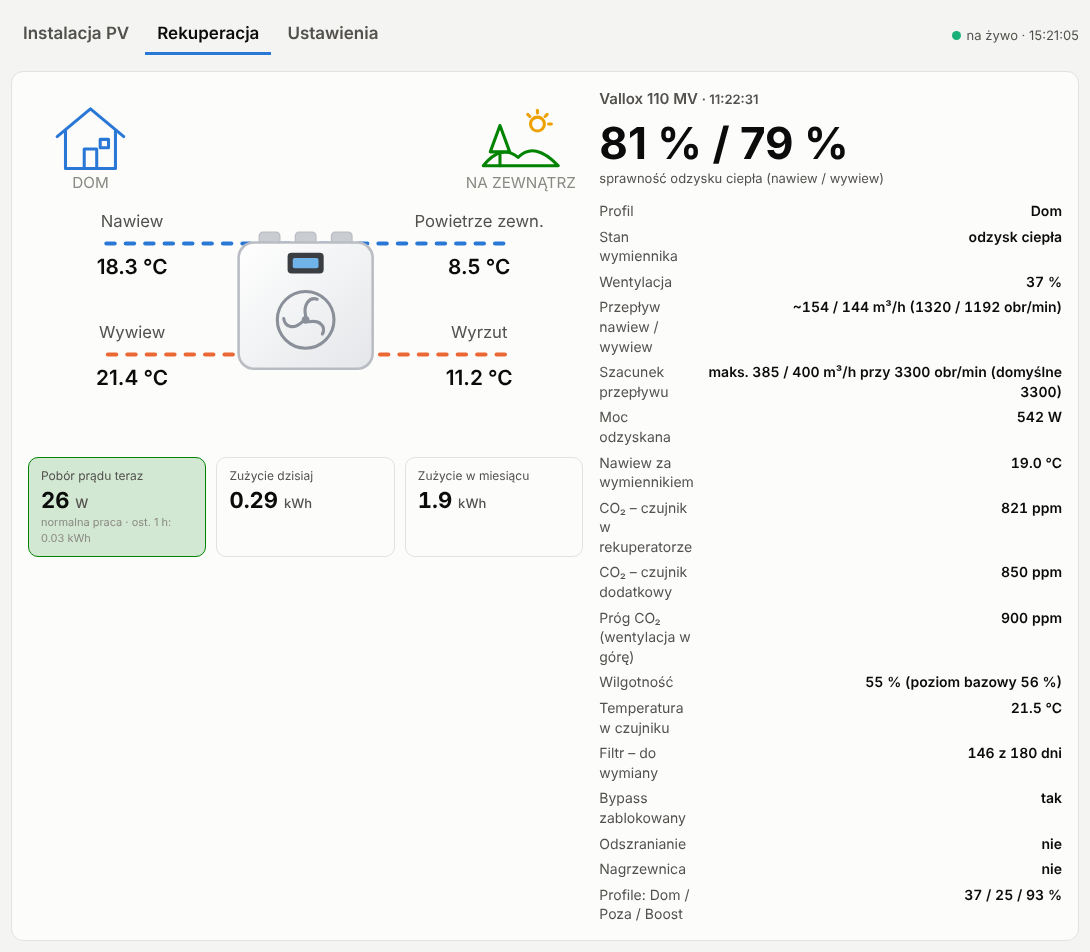
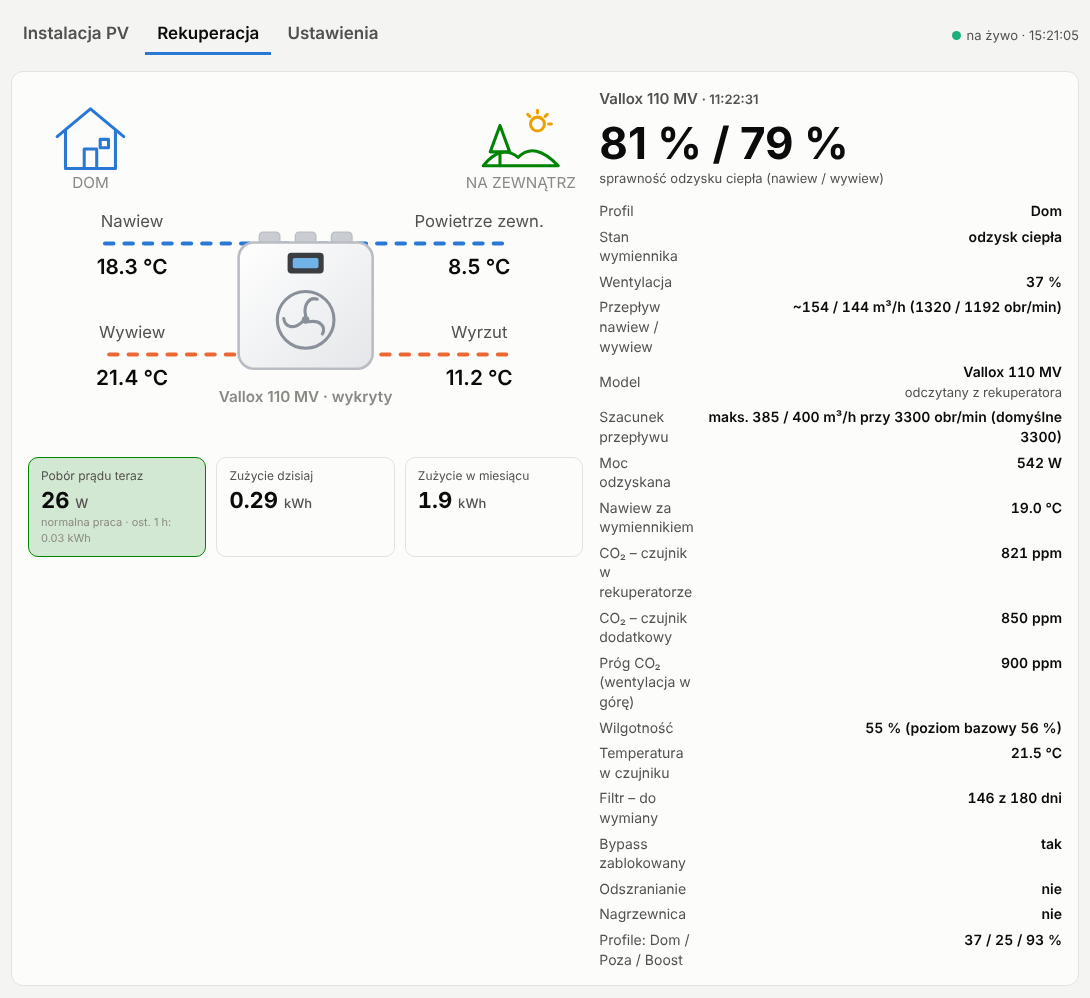
v1.16.0: rekuperacja - automatyczne rozpoznanie modelu Vallox, model na grafice; README - pelny opis rekuperacji ze zrzutami
Szczegoly w CHANGELOG.md

diff --git a/web/index.html b/web/index.html
@@ -489,6 +489,7 @@ th:first-child, td:first-child { text-align: left; }
       <path id="v-l-out" class="line" d="M55 192 L345 192" stroke="var(--s-pv)"/>
       <image href="/static/recuperator.svg" x="146" y="102" width="108" height="104" preserveAspectRatio="xMidYMid meet">
         <title>Rekuperator Vallox</title></image>
+      <text class="sub" x="200" y="226" id="v-model" style="font-weight:600"></text>
       <text class="lbl" x="325" y="100">Powietrze zewn.</text><text class="val" x="325" y="134" id="v-tout">–</text>
       <text class="lbl" x="75" y="100">Nawiew</text><text class="val" x="75" y="134" id="v-tsup">–</text>
       <text class="lbl" x="75" y="180">Wywiew</text><text class="val" x="75" y="214" id="v-text">–</text>
@@ -717,6 +718,7 @@ th:first-child, td:first-child { text-align: left; }
       <fieldset><legend>Rekuperacja (opcjonalnie)</legend>
         <label>Adres IP rekuperatora Vallox (seria MV)<input data-k="rekuperacja.vallox_ip" placeholder="puste = bez zakładki Rekuperacja"></label>
         <label>Model rekuperatora<select data-k="rekuperacja.model">
+          <option value="auto">automatycznie – odczyt z rekuperatora</option>
           <option value="096">Vallox 096 MV (maks. 292 / 310 m³/h)</option>
           <option value="110">Vallox 110 MV (maks. 385 / 400 m³/h)</option>
           <option value="145">Vallox 145 MV (maks. 511 / 576 m³/h)</option>
@@ -1760,7 +1762,7 @@ const fmtT = v => v == null ? '–' : v.toFixed(1) + ' °C';
 async function loadVallox() {
   let d;
   try { d = await (await fetch('/api/vallox/live')).json(); } catch (e) { return; }
-  if (d.model) $('vname').textContent = d.model.name;
+  if (d.model) { $('vname').textContent = d.model.name || 'Rekuperator Vallox'; $('v-model').textContent = d.model.name ? d.model.name + (d.model.detected ? ' · wykryty' : '') : ''; }
   $('vstatus').textContent = d.ok ? '· ' + new Date(d.ts * 1000).toLocaleTimeString('pl-PL') : '· błąd: ' + d.error;
   lastVallox = d; renderBalance(d); renderBypass(d); renderSupply(d);
   $('v-tout').textContent = fmtT(d.t_out); $('v-tsup').textContent = fmtT(d.t_sup);
@@ -1774,6 +1776,7 @@ async function loadVallox() {
   $('v-kv').innerHTML =
     row('Profil', d.profile_txt) + row('Stan wymiennika', d.cell_state_txt) + row('Wentylacja', d.fan_pct != null ? d.fan_pct + ' %' : null) +
     row('Przepływ nawiew / wywiew', d.flow_sup != null ? `~${d.flow_sup} / ${d.flow_ext} m³/h (${d.rpm_sup} / ${d.rpm_ext} obr/min)` : null) +
+    (d.model ? row('Model', `${esc(d.model.name || '–')}${d.model.source ? '<br><span class="status" style="display:inline;font-weight:400">' + esc(d.model.source) + '</span>' : ''}`) : '') +
     (d.model ? row('Szacunek przepływu', `maks. ${d.model.flow_max.sup} / ${d.model.flow_max.ext} m³/h przy ${d.model.rpm_max.sup} obr/min (${d.model.rpm_source})`) : '') +
     row('Moc odzyskana', d.p_rec_w != null ? Math.round(d.p_rec_w) + ' W' : null) +
     row('Nawiew za wymiennikiem', fmtT(d.t_sup_cell)) +

diff --git a/vallox.py b/vallox.py
@@ -39,14 +39,47 @@ MODELS = {
     "145": ("Vallox 145 MV", 511, 576),
     "245": ("Vallox 245 MV", 889, 976),
 }
-MODEL = config.get("rekuperacja", "model", "110") or "110"
-if MODEL in MODELS:
-    MODEL_NAME, _q_sup, _q_ext = MODELS[MODEL]
-else:                                           # "inny": maks. przeplyw wpisany recznie (obie strony)
-    _q = config.getf("rekuperacja", "przeplyw_max_m3h", 385) or 385
-    _qe = config.getf("rekuperacja", "przeplyw_max_wywiew_m3h", 0) or _q
-    MODEL_NAME, _q_sup, _q_ext = "Vallox (model spoza listy)", _q, _qe
-FLOW_MAX = {"sup": _q_sup, "ext": _q_ext}
+# model: "auto" (domyslnie) = odczyt A_CYC_MACHINE_MODEL z rekuperatora; "096" / "110" / "145" / "245" recznie;
+# "inny" = maks. przeplyw wpisany recznie. Modele z innym oznaczeniem tej samej jednostki (DV.. Adroit) -> ten sam przeplyw.
+MODEL_ALIASES = {"096 MV": "096", "96 MV": "096", "DV96": "096", "110 MV": "110", "DV110": "110",
+                 "145 MV": "145", "DV145": "145", "245 MV": "245", "DV245": "245"}
+MODEL = (config.get("rekuperacja", "model", "auto") or "auto").lower()
+_q = config.getf("rekuperacja", "przeplyw_max_m3h", 0) or None
+_qe = config.getf("rekuperacja", "przeplyw_max_wywiew_m3h", 0) or _q
+MODEL_INFO = {"key": None, "name": None, "detected": None, "source": None}
+FLOW_MAX = {"sup": 385, "ext": 400}
+
+
+def _apply_model(key, detected=None):
+    """Ustawia maks. przeplyw wg modelu: z listy, recznie wpisany albo (gdy nieznany) wartosci 110 MV."""
+    if key in MODELS:
+        name, qs, qe = MODELS[key]
+        src = "odczytany z rekuperatora" if detected else "wybrany w Ustawieniach"
+    elif _q:
+        name, qs, qe = detected or "Vallox (model spoza listy)", _q, _qe
+        src = "przepływ wpisany w Ustawieniach"
+    else:
+        name, qs, qe = detected or "Vallox", 385, 400
+        src = ("model spoza listy – przyjęto przepływ jak 110 MV; wpisz maks. przepływ w Ustawieniach"
+               if detected else "model nieznany – przyjęto 110 MV")
+    FLOW_MAX.update(sup=qs, ext=qe)
+    MODEL_INFO.update(key=key if key in MODELS else "inny", name=name, detected=detected, source=src)
+
+
+def detect_model(name):
+    """Nazwa z rekuperatora (np. "Vallox 145 MV") -> klucz MODELS albo None."""
+    n = (name or "").replace("Vallox ", "").strip()
+    for alias, key in MODEL_ALIASES.items():
+        if n == alias or n.startswith(alias + " ") or n.startswith(alias):
+            return key
+    return None
+
+
+if MODEL != "auto":
+    _apply_model(MODEL if MODEL in MODELS else None)
+else:
+    _apply_model(None)
+    MODEL_INFO["source"] = "czekam na odczyt modelu z rekuperatora (do tego czasu jak 110 MV)"
 RPM_MAX_DEFAULT = 3300
 RPM_MAX_CFG = config.getf("rekuperacja", "obroty_max", 0) or None
 CAL_FILE = config.DATA_DIR / "vallox_rpm_max.json"      # obroty przy >= 98 % zapamietane automatycznie
@@ -255,6 +288,15 @@ def read_once(host=HOST):
     extra = {k: m.get(v) for k, v in EXTRA.items()}
     raw = extra.pop("ms_temp_raw", None)
     extra["ms_temp"] = round(raw / 100 - 273.15, 1) if isinstance(raw, (int, float)) and raw > 20000 else None
+    if MODEL == "auto" and MODEL_INFO.get("detected") is None:
+        idx = m.get("A_CYC_MACHINE_MODEL")
+        try:
+            from vallox_websocket_api.vallox import DEVICE_MODEL
+            name = DEVICE_MODEL[idx] if isinstance(idx, int) and 0 <= idx < len(DEVICE_MODEL) else None
+        except Exception:  # noqa: BLE001 - starsza biblioteka bez listy modeli
+            name = None
+        if name:
+            _apply_model(detect_model(name), detected=name)
     return vals, extra
 
 
@@ -950,7 +992,8 @@ def status():
     d["p_rec_w"] = recovered_w(d.get("t_out"), d.get("t_sup_cell"), d["flow_sup"], d.get("cell_state"))
     d["flow_calibrated"] = bool(AIRFLOW_CAL.get("sup") or AIRFLOW_CAL.get("ext"))
     cal = _rpm_load()
-    d["model"] = {"key": MODEL, "name": MODEL_NAME, "flow_max": FLOW_MAX,
+    d["model"] = {"key": MODEL_INFO["key"], "setting": MODEL, "name": MODEL_INFO["name"], "detected": MODEL_INFO["detected"],
+                  "source": MODEL_INFO["source"], "flow_max": FLOW_MAX,
                   "rpm_max": {k: rpm_max(k) for k in ("sup", "ext")},
                   "rpm_source": "ustawienia" if RPM_MAX_CFG else ("zapamiętane przy 100 %" if cal.get("sup") else "domyślne 3300")}
     a = _auto_load()

diff --git a/config.py b/config.py
@@ -89,7 +89,7 @@ DEFAULTS = {
     },
     "rekuperacja": {                     # opcjonalnie: rekuperator Vallox seria MV (MyVallox) - zakladka Rekuperacja
         "vallox_ip": "",                 # adres IP rekuperatora; puste = bez zakladki Rekuperacja
-        "model": "110",                  # 096 | 110 | 145 | 245 | inny (maks. przeplyw modelu -> szacunek przeplywu m3/h)
+        "model": "auto",                 # auto (odczyt z rekuperatora) | 096 | 110 | 145 | 245 | inny -> szacunek przeplywu m3/h
         "przeplyw_max_m3h": "",          # tylko dla "inny": maks. przeplyw nawiewu z karty katalogowej [m3/h]
         "przeplyw_max_wywiew_m3h": "",   # tylko dla "inny": maks. przeplyw wywiewu (puste = jak nawiew)
         "obroty_max": "",                # obroty wentylatora przy 100 %; puste = automatycznie (Boost 100 %) / 3300

diff --git a/app.py b/app.py
@@ -29,7 +29,7 @@ import gridwatch
 import meter
 import vallox
 
-__version__ = "1.15.1"
+__version__ = "1.16.0"
 
 # --- konfiguracja (config.ini, sekcja [falownik]) --------------------------
 HOST = config.get("falownik", "host", "192.168.1.100")

diff --git a/README.md b/README.md
@@ -45,7 +45,9 @@ Więcej zrzutów ekranu: [galeria](#zrzuty-ekranu).
 ## Rekuperacja – Vallox seria MV (opcjonalnie)
 
 Zakładka **Rekuperacja** pojawia się po wpisaniu adresu IP rekuperatora w Ustawieniach → Rekuperacja i ponownym
-uruchomieniu aplikacji. Bez adresu aplikacja wygląda i działa jak wcześniej.
+uruchomieniu aplikacji. **Wystarczy sam adres IP** – model (np. Vallox 145 MV) aplikacja odczyta z rekuperatora i na jego
+podstawie dobierze parametry do szacowania przepływu; wykryty model widać na grafice rekuperatora. Bez adresu aplikacja
+wygląda i działa jak wcześniej.
 
 ### Wymagania
 
@@ -59,7 +61,7 @@ aplikacja łączy się z nim lokalnie (websocket, port 80, bez hasła i bez chmu
 | ustawienie | znaczenie |
 |---|---|
 | `vallox_ip` | adres rekuperatora; puste = bez zakładki |
-| `model` | `096`, `110`, `145`, `245` albo `inny` – maks. przepływ modelu do szacowania m³/h |
+| `model` | `auto` (domyślnie) – model odczytany z rekuperatora; ręcznie `096`, `110`, `145`, `245` albo `inny` – maks. przepływ modelu do szacowania m³/h |
 | `przeplyw_max_m3h`, `przeplyw_max_wywiew_m3h` | tylko dla `inny`: maks. przepływ nawiewu i wywiewu z karty katalogowej |
 | `obroty_max` | obroty wentylatorów przy 100 %; puste = automatycznie (patrz niżej) |
 | `miernik`, `miernik_ip` | gniazdko z pomiarem poboru rekuperatora (`shelly`) – opcjonalnie |
@@ -80,7 +82,8 @@ aplikacja łączy się z nim lokalnie (websocket, port 80, bez hasła i bez chmu
 
 ### Przepływ to szacunek
 
-Seria MV nie mierzy przepływu – aplikacja liczy go z obrotów:
+Seria MV nie mierzy przepływu – aplikacja liczy go z obrotów (model rozpoznany automatycznie; dla modeli spoza listy
+096 / 110 / 145 / 245 MV wpisz maks. przepływ z karty katalogowej):
 maks. przepływ modelu (dane Vallox przy 100 Pa, osobno nawiew i wywiew) × obroty ÷ obroty przy 100 %.
 Obroty przy 100 % aplikacja zapamięta sama, gdy rekuperator popracuje na ≥ 98 % (np. **Boost 100 % przez 2–3 min**);
 do tego czasu przyjmuje 3300 obr/min (110 MV). Rzeczywisty przepływ zależy od oporów kanałów w domu – najdokładniejszy

diff --git a/CHANGELOG.md b/CHANGELOG.md
@@ -2,6 +2,19 @@
 
 Format wg [Keep a Changelog](https://keepachangelog.com/pl/1.1.0/), wersje wg [SemVer](https://semver.org/lang/pl/).
 
+## [1.16.0] - 2026-10-24
+
+### Dodano
+- Rekuperacja: **automatyczne rozpoznanie modelu Vallox** z rekuperatora (A_CYC_MACHINE_MODEL) – wystarczy wpisać adres IP.
+  Na tej podstawie dobierany jest maks. przepływ (096 / 110 / 145 / 245 MV, także odpowiedniki DV… Adroit);
+  dla modelu spoza listy – przepływ do wpisania w Ustawieniach. Ustawienie `model = auto` (domyślne dla nowych instalacji);
+  ręczny wybór modelu dalej możliwy.
+- Wykryty model na grafice rekuperatora i w nagłówku karty; wiersz „Model” ze źródłem (odczytany / wybrany / wpisany).
+
+### Dokumentacja
+- README: osobna sekcja Rekuperacja (wymagania, ustawienia, szacunek przepływu, sterowanie, szczegółowo automaty,
+  planowane czujniki CO₂ SONOFF SAWF-08P, miernik poboru) ze zrzutami ekranu.
+
 ## [1.15.1] - 2026-10-23
 
 ### Poprawiono
